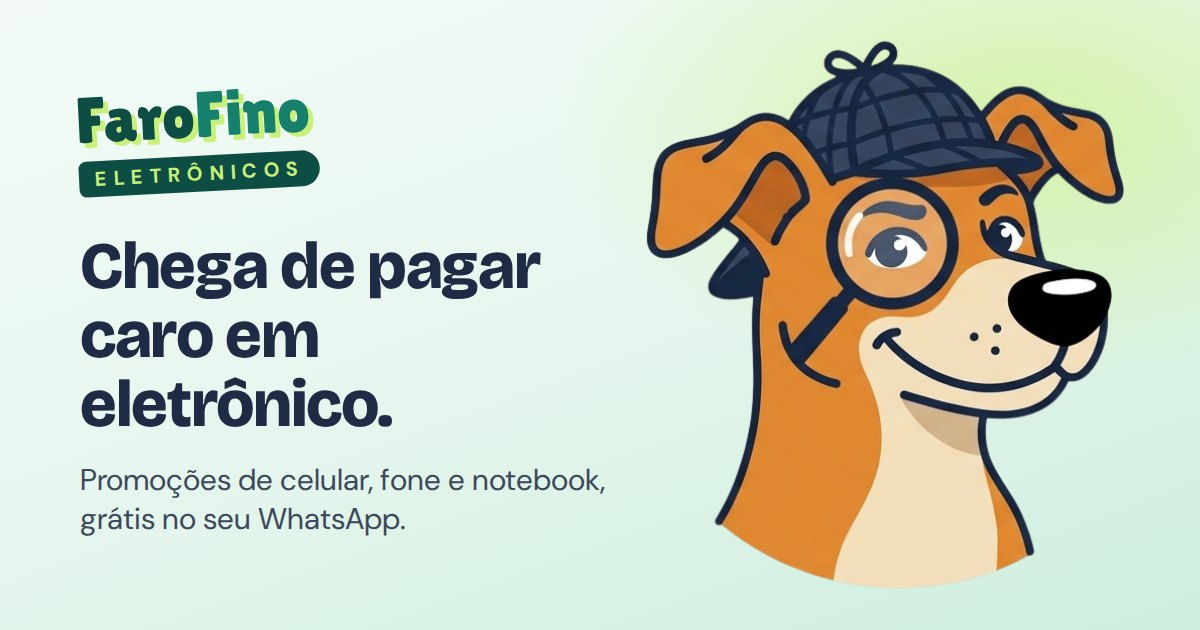
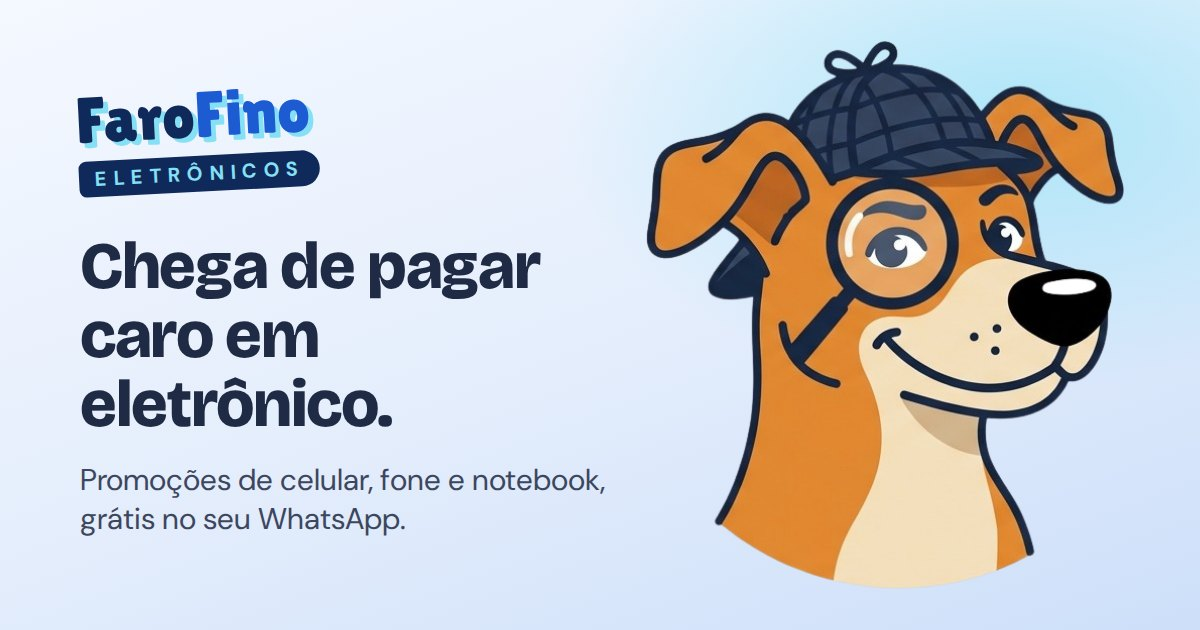
Paleta própria por nicho: perfumes roxo, eletrônicos azul, máquinas preto
As cores com transparência do CSS passam a usar tokens (--lime-rgb etc.), e cada
nicho troca os tokens em src/styles/temas.css. Etiquetas da primeira dobra e
imagens de compartilhamento também ganham versão nas cores de cada nicho.
A página principal e a /b continuam verdes.

Claude-Session: https://claude.ai/code/session_01NMTXa2kANEwiPrjUjUNUhs

diff --git a/src/styles/global.css b/src/styles/global.css
@@ -16,8 +16,20 @@
   --mint-mist: #f4fbf6;
   --mint-pale: #e6f6ee;
   --mint-soft: #cdeedd;
+  --cta-end: #1b9178;
+  --title-end: #8fe0bd;
 
-  --grad-cta: linear-gradient(135deg, var(--emerald) 0%, var(--green) 55%, #1b9178 110%);
+  /* Os mesmos tons em R, G, B, para usar com transparência: rgba(var(--lime-rgb), 0.5) */
+  --lime-rgb: 200, 240, 122;
+  --green-rgb: 23, 128, 109;
+  --mint-rgb: 31, 163, 138;
+  --forest-rgb: 14, 77, 67;
+  --emerald-deep-rgb: 11, 59, 52;
+  --mint-mist-rgb: 244, 251, 246;
+  --mint-pale-rgb: 230, 246, 238;
+  --mint-soft-rgb: 205, 238, 221;
+
+  --grad-cta: linear-gradient(135deg, var(--emerald) 0%, var(--green) 55%, var(--cta-end) 110%);
   --grad-deep: linear-gradient(140deg, var(--emerald-deep) 0%, var(--forest) 50%, var(--green) 115%);
   --grad-night: linear-gradient(140deg, var(--navy) 0%, var(--forest) 60%, var(--green) 125%);
   --grad-soft: linear-gradient(145deg, var(--mint-mist) 0%, var(--mint-pale) 55%, var(--mint-soft) 100%);
@@ -25,7 +37,7 @@
   --shadow-sm: 0 1px 2px rgba(31, 42, 68, 0.08), 0 4px 10px -4px rgba(31, 42, 68, 0.14);
   --shadow-md: 0 2px 4px rgba(31, 42, 68, 0.06), 0 16px 32px -12px rgba(31, 42, 68, 0.28);
   --shadow-lg: 0 4px 10px rgba(31, 42, 68, 0.08), 0 32px 60px -20px rgba(31, 42, 68, 0.45);
-  --shadow-cta: 0 12px 26px -8px rgba(23, 128, 109, 0.6), 0 4px 10px -4px rgba(14, 77, 67, 0.45);
+  --shadow-cta: 0 12px 26px -8px rgba(var(--green-rgb), 0.6), 0 4px 10px -4px rgba(var(--forest-rgb), 0.45);
 
   /* Azul-marinho com transparência, para textos secundários e linhas */
   --navy-muted: rgba(31, 42, 68, 0.78);
@@ -215,7 +227,7 @@ a {
   z-index: -1;
   background: radial-gradient(
     140px circle at var(--shine-x, 50%) var(--shine-y, 50%),
-    rgba(200, 240, 122, 0.45),
+    rgba(var(--lime-rgb), 0.45),
     transparent 70%
   );
   opacity: 0;
@@ -224,7 +236,7 @@ a {
 
 .btn:hover {
   transform: translateY(-3px);
-  box-shadow: 0 20px 34px -10px rgba(23, 128, 109, 0.7), 0 0 0 4px rgba(200, 240, 122, 0.55);
+  box-shadow: 0 20px 34px -10px rgba(var(--green-rgb), 0.7), 0 0 0 4px rgba(var(--lime-rgb), 0.55);
 }
 
 .btn:hover::after {
@@ -276,38 +288,38 @@ a {
 
 .bg__overlay--hero {
   background:
-    radial-gradient(55% 55% at 88% 18%, rgba(200, 240, 122, 0.55), transparent 70%),
-    radial-gradient(50% 50% at 5% 95%, rgba(31, 163, 138, 0.22), transparent 70%),
+    radial-gradient(55% 55% at 88% 18%, rgba(var(--lime-rgb), 0.55), transparent 70%),
+    radial-gradient(50% 50% at 5% 95%, rgba(var(--mint-rgb), 0.22), transparent 70%),
     linear-gradient(160deg, var(--mint-mist) 0%, var(--mint-pale) 50%, var(--mint-soft) 100%);
 }
 
 .bg__overlay--hero.bg__overlay--photo {
-  background: linear-gradient(100deg, rgba(244, 251, 246, 0.96) 0%, rgba(230, 246, 238, 0.88) 50%, rgba(205, 238, 221, 0.55) 100%);
+  background: linear-gradient(100deg, rgba(var(--mint-mist-rgb), 0.96) 0%, rgba(var(--mint-pale-rgb), 0.88) 50%, rgba(var(--mint-soft-rgb), 0.55) 100%);
 }
 
 .bg__overlay--como-funciona {
   background:
-    radial-gradient(45% 55% at 90% 40%, rgba(200, 240, 122, 0.35), transparent 70%),
+    radial-gradient(45% 55% at 90% 40%, rgba(var(--lime-rgb), 0.35), transparent 70%),
     linear-gradient(180deg, var(--white) 0%, var(--mint-pale) 100%);
 }
 
 .bg__overlay--como-funciona.bg__overlay--photo {
-  background: linear-gradient(90deg, rgba(255, 255, 255, 0.96) 0%, rgba(255, 255, 255, 0.9) 50%, rgba(230, 246, 238, 0.55) 100%);
+  background: linear-gradient(90deg, rgba(255, 255, 255, 0.96) 0%, rgba(255, 255, 255, 0.9) 50%, rgba(var(--mint-pale-rgb), 0.55) 100%);
 }
 
 .bg__overlay--sem-misterio {
   background:
-    radial-gradient(45% 60% at 100% 0%, rgba(200, 240, 122, 0.22), transparent 70%),
+    radial-gradient(45% 60% at 100% 0%, rgba(var(--lime-rgb), 0.22), transparent 70%),
     var(--grad-deep);
 }
 
 .bg__overlay--sem-misterio.bg__overlay--photo {
-  background: linear-gradient(120deg, rgba(11, 59, 52, 0.95) 0%, rgba(14, 77, 67, 0.9) 55%, rgba(23, 128, 109, 0.82) 110%);
+  background: linear-gradient(120deg, rgba(var(--emerald-deep-rgb), 0.95) 0%, rgba(var(--forest-rgb), 0.9) 55%, rgba(var(--green-rgb), 0.82) 110%);
 }
 
 .bg__overlay--vitrine {
   background:
-    radial-gradient(40% 40% at 0% 0%, rgba(200, 240, 122, 0.35), transparent 70%),
+    radial-gradient(40% 40% at 0% 0%, rgba(var(--lime-rgb), 0.35), transparent 70%),
     linear-gradient(180deg, var(--mint-mist) 0%, var(--mint-pale) 100%);
 }
 
@@ -317,12 +329,12 @@ a {
 
 .bg__overlay--final {
   background:
-    radial-gradient(50% 60% at 85% 100%, rgba(200, 240, 122, 0.28), transparent 70%),
+    radial-gradient(50% 60% at 85% 100%, rgba(var(--lime-rgb), 0.28), transparent 70%),
     var(--grad-night);
 }
 
 .bg__overlay--final.bg__overlay--photo {
-  background: linear-gradient(120deg, rgba(31, 42, 68, 0.95) 0%, rgba(14, 77, 67, 0.88) 60%, rgba(23, 128, 109, 0.75) 120%);
+  background: linear-gradient(120deg, rgba(31, 42, 68, 0.95) 0%, rgba(var(--forest-rgb), 0.88) 60%, rgba(var(--green-rgb), 0.75) 120%);
 }
 
 .top {
@@ -634,7 +646,7 @@ a {
   border-radius: 6px;
   background: var(--lime);
   color: var(--emerald-deep);
-  box-shadow: 0 4px 10px -4px rgba(14, 77, 67, 0.55);
+  box-shadow: 0 4px 10px -4px rgba(var(--forest-rgb), 0.55);
   font-size: 0.8125rem;
   font-weight: 700;
   line-height: 1.5;
@@ -790,7 +802,7 @@ a {
   -webkit-background-clip: text;
   background-clip: text;
   color: transparent;
-  filter: drop-shadow(0 6px 10px rgba(23, 128, 109, 0.3));
+  filter: drop-shadow(0 6px 10px rgba(var(--green-rgb), 0.3));
 }
 
 .how__step-title {
@@ -816,7 +828,7 @@ a {
   border-radius: 40px;
   background: var(--grad-night);
   box-shadow:
-    0 50px 80px -30px rgba(23, 128, 109, 0.55),
+    0 50px 80px -30px rgba(var(--green-rgb), 0.55),
     0 24px 40px -20px rgba(31, 42, 68, 0.6),
     inset 0 0 0 2px rgba(255, 255, 255, 0.08);
   transform: perspective(1200px) rotate(2deg) rotateX(var(--tilt-x, 0deg)) rotateY(var(--tilt-y, 0deg));
@@ -1098,7 +1110,7 @@ a {
 
 .trust__list {
   display: grid;
-  border-top: 2px solid rgba(200, 240, 122, 0.7);
+  border-top: 2px solid rgba(var(--lime-rgb), 0.7);
 }
 
 .trust__item-title {
@@ -1107,7 +1119,7 @@ a {
 
 .trust__item {
   padding-block: 18px;
-  border-bottom: 2px solid rgba(200, 240, 122, 0.7);
+  border-bottom: 2px solid rgba(var(--lime-rgb), 0.7);
   transition: transform 0.3s cubic-bezier(0.2, 0.8, 0.2, 1);
 }
 
@@ -1271,14 +1283,14 @@ a {
   right: -30px;
   bottom: -70px;
   width: 220px;
-  filter: drop-shadow(-12px 10px 30px rgba(200, 240, 122, 0.35));
+  filter: drop-shadow(-12px 10px 30px rgba(var(--lime-rgb), 0.35));
 }
 
 .final__title {
   width: fit-content;
   max-width: 100%;
   padding: 0 0.1em 0.06em 0;
-  background: linear-gradient(100deg, var(--cream) 30%, var(--lime) 70%, #8fe0bd 110%);
+  background: linear-gradient(100deg, var(--cream) 30%, var(--lime) 70%, var(--title-end) 110%);
   -webkit-background-clip: text;
   background-clip: text;
   color: transparent;

diff --git a/src/styles/temas.css b/src/styles/temas.css
@@ -1,0 +1,78 @@
+/*
+ * Paletas das páginas de nicho. Cada uma troca os tokens de src/styles/global.css
+ * (os nomes continuam "verdes" porque a paleta padrão do FaroFino é verde).
+ * Ativada por <html data-tema="...">, definido em src/layouts/Base.astro.
+ * A imagem de etiquetas da primeira dobra tem uma versão por nicho (scripts/recolor-hero.mjs).
+ */
+
+/* Perfumes: roxo com destaque rosa-orquídea */
+html[data-tema='perfumes'] {
+  --emerald-deep: #22103b;
+  --forest: #331856;
+  --emerald: #45207a;
+  --green: #6a35a8;
+  --mint: #9a68d6;
+  --lime: #f0b6ec;
+  --mint-mist: #faf6fd;
+  --mint-pale: #f1e8fa;
+  --mint-soft: #e0cff3;
+  --cta-end: #8350c8;
+  --title-end: #d4b0ff;
+
+  --lime-rgb: 240, 182, 236;
+  --green-rgb: 106, 53, 168;
+  --mint-rgb: 154, 104, 214;
+  --forest-rgb: 51, 24, 86;
+  --emerald-deep-rgb: 34, 16, 59;
+  --mint-mist-rgb: 250, 246, 253;
+  --mint-pale-rgb: 241, 232, 250;
+  --mint-soft-rgb: 224, 207, 243;
+}
+
+/* Eletrônicos: azul com destaque ciano */
+html[data-tema='eletronicos'] {
+  --emerald-deep: #0a1c3d;
+  --forest: #0f2a5a;
+  --emerald: #143c86;
+  --green: #1d5bd3;
+  --mint: #3f8cff;
+  --lime: #86e0f5;
+  --mint-mist: #f4f8ff;
+  --mint-pale: #e5eefc;
+  --mint-soft: #cddff9;
+  --cta-end: #2f78f0;
+  --title-end: #b5d3ff;
+
+  --lime-rgb: 134, 224, 245;
+  --green-rgb: 29, 91, 211;
+  --mint-rgb: 63, 140, 255;
+  --forest-rgb: 15, 42, 90;
+  --emerald-deep-rgb: 10, 28, 61;
+  --mint-mist-rgb: 244, 248, 255;
+  --mint-pale-rgb: 229, 238, 252;
+  --mint-soft-rgb: 205, 223, 249;
+}
+
+/* Máquinas: preto e grafite com destaque amarelo (cara de ferramenta) */
+html[data-tema='maquinas'] {
+  --emerald-deep: #0c0c0d;
+  --forest: #161618;
+  --emerald: #1e1e21;
+  --green: #2c2c31;
+  --mint: #d9a400;
+  --lime: #f7d06a;
+  --mint-mist: #f7f7f5;
+  --mint-pale: #ededea;
+  --mint-soft: #dcdcd7;
+  --cta-end: #3d3d44;
+  --title-end: #ffe9a8;
+
+  --lime-rgb: 247, 208, 106;
+  --green-rgb: 44, 44, 49;
+  --mint-rgb: 217, 164, 0;
+  --forest-rgb: 22, 22, 24;
+  --emerald-deep-rgb: 12, 12, 13;
+  --mint-mist-rgb: 247, 247, 245;
+  --mint-pale-rgb: 237, 237, 234;
+  --mint-soft-rgb: 220, 220, 215;
+}

diff --git a/src/data/nichos.ts b/src/data/nichos.ts
@@ -30,7 +30,7 @@ export interface ChatContent {
 
 export interface Nicho {
   /** Endereço da página: farofinoofertas.com/<slug>. Também vai como variante no Pixel/Clarity. */
-  slug: string;
+  slug: 'perfumes' | 'eletronicos' | 'maquinas';
   /** Texto da etiqueta da logo: FaroFino [Perfumes]. */
   marca: string;
   /**

diff --git a/README.md b/README.md
@@ -66,5 +66,9 @@ Mesmo layout da página principal, com texto na linha da versão B. Textos, ofer
 de cada nicho ficam em `src/data/nichos.ts` (campo `grupoUrl`, hoje provisório apontando para o link geral).
 Fotos das ofertas: `src/data/offer-photos.json`. Imagem de compartilhamento: `public/og-<nicho>.jpg`.
 
+Cada nicho tem sua paleta (a verde é a padrão do FaroFino): **Perfumes** roxo, **Eletrônicos** azul e
+**Máquinas** preto com amarelo. As cores ficam em `src/styles/temas.css`. A imagem de etiquetas da primeira dobra
+tem uma versão por nicho, gerada com `node scripts/recolor-hero.mjs`.
+
 Nas métricas, cada nicho aparece como `variante` = `perfumes`, `eletronicos` ou `maquinas` (Pixel e Clarity), e o link
 do grupo recebe `lp=<nicho>`.
